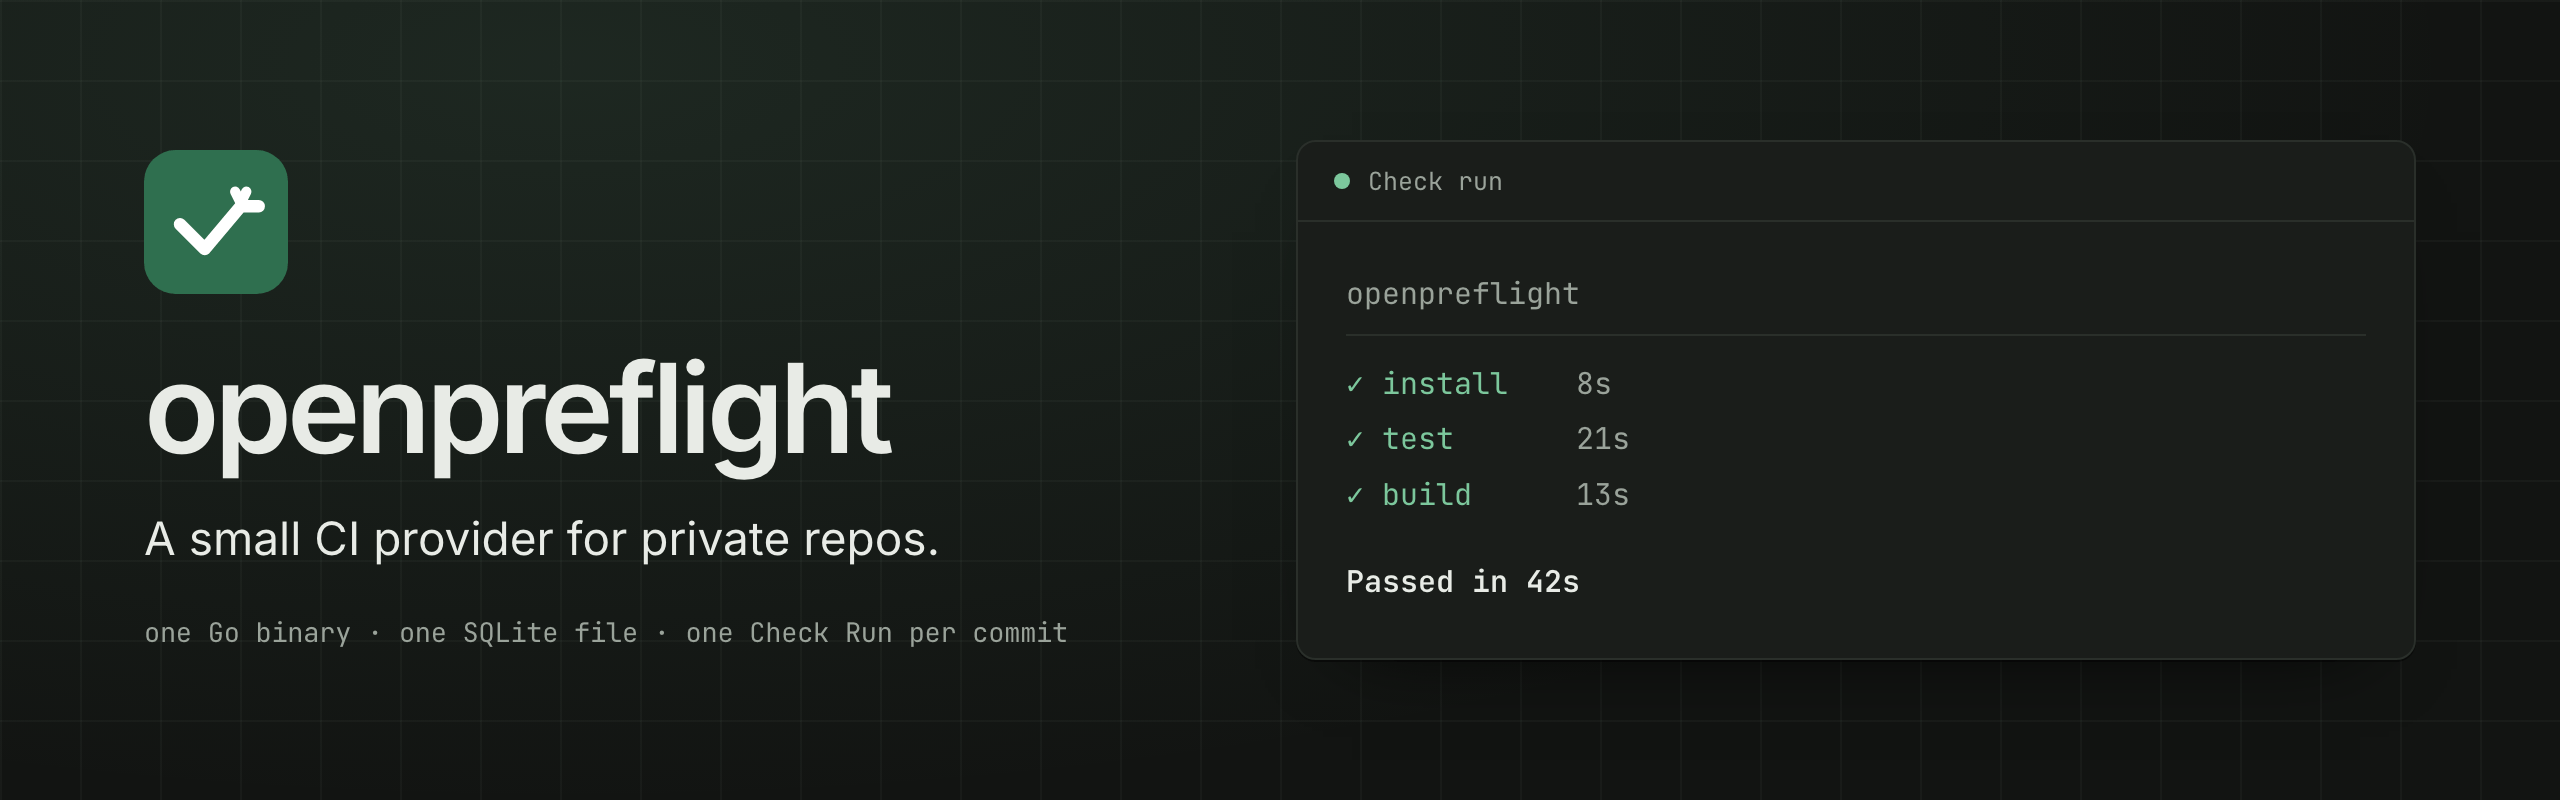
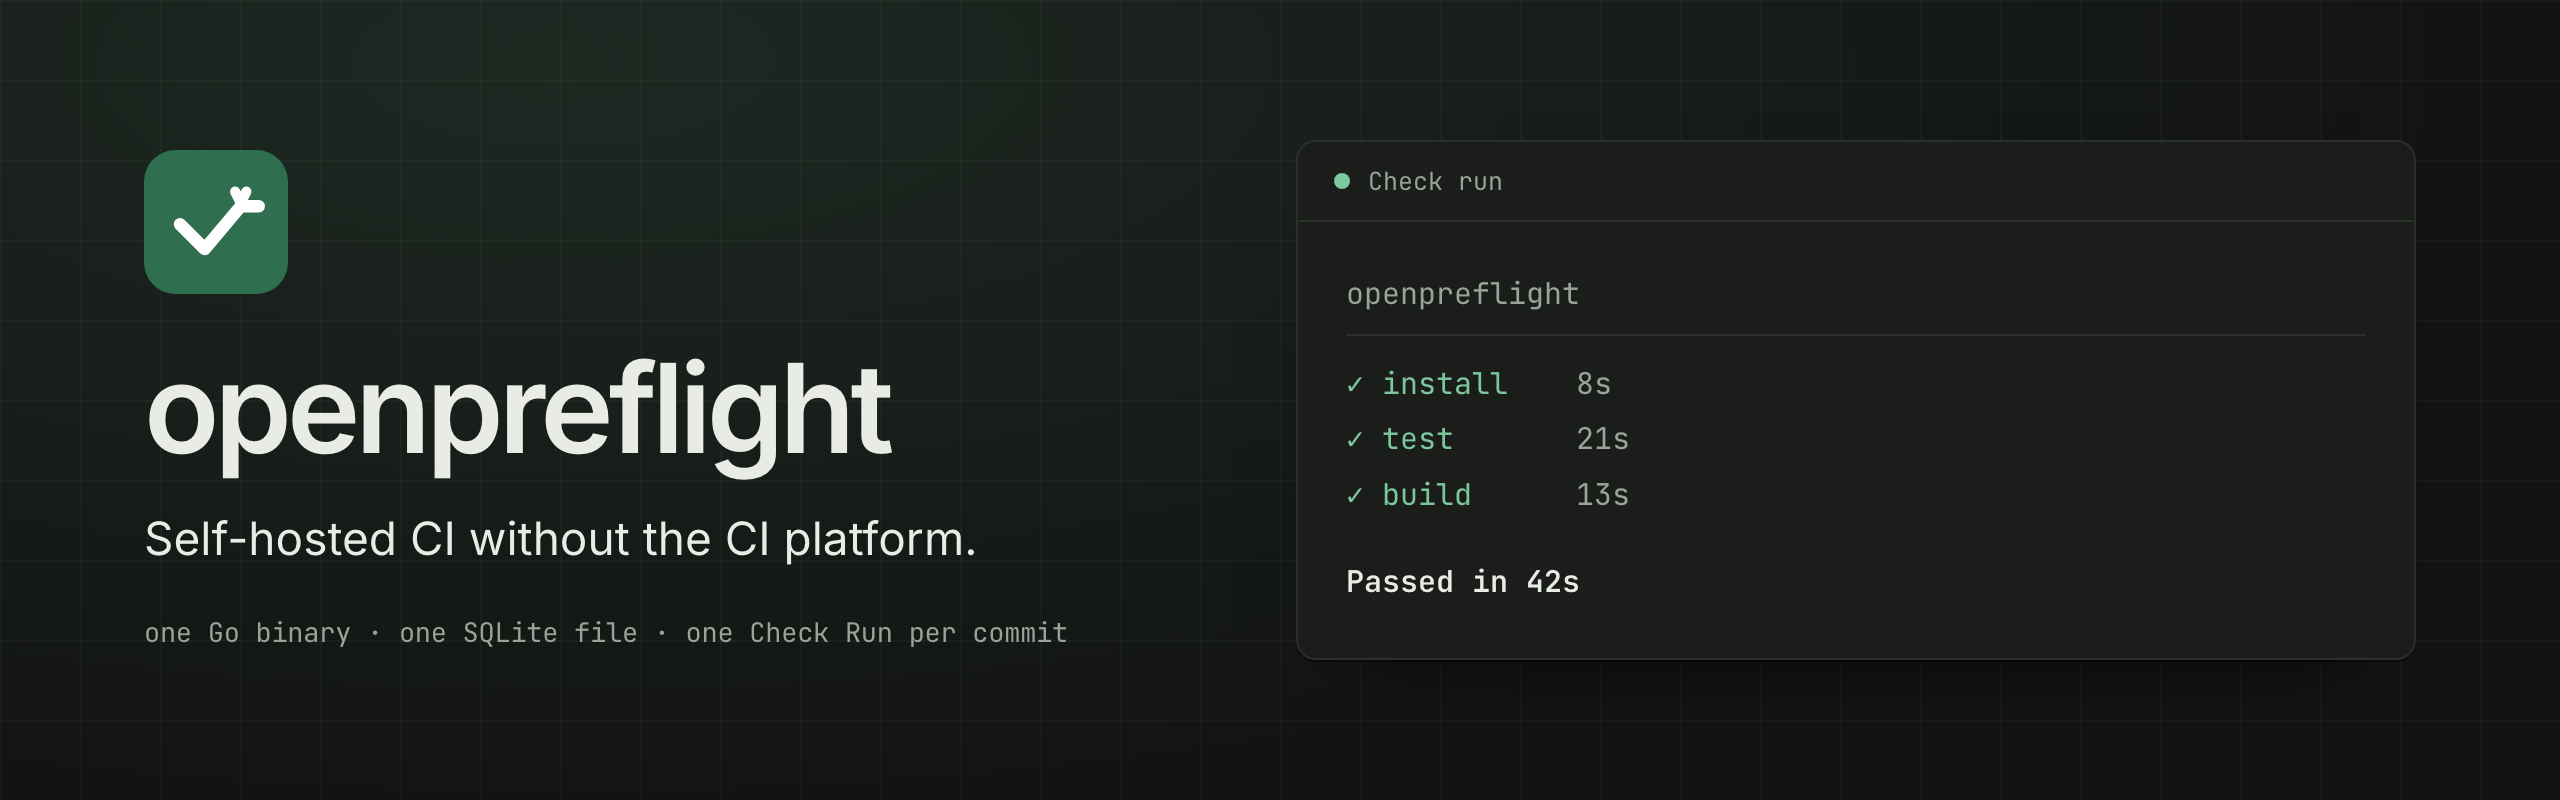
Lead with the positioning and the gating model, not the binary
The hero sold an implementation detail. "A small CI provider for private
repos" plus "one Go binary and one SQLite file" described what the thing
is made of, not what it is for, and left the actual argument — native
GitHub Check Runs from a system you host — to be inferred.

The H1 is now the positioning. Check Runs lead the sub-head and the
binary and SQLite file follow as consequences.

A new section states the gating model, which was the strongest technical
argument on the site and appeared nowhere: event, immutable SHA, one
logical run, one Check Run. Two things fall out of it, and both are
reasons a system this small can hold a required check. A run binds to a
commit and never to a branch, so a force-push has nothing to cancel. And
a skip is a completed check with a `skipped` conclusion rather than an
absent one, so branch protection always gets an answer.

The privacy claim is stated honestly next to it: GitHub has to reach the
webhook, so that part is public, and everything the run touches is not.
The site already said this correctly on Self-hosted and Security; it was
positioning that overshot.

The old positioning also survived in six places the pages did not cover,
including llms.txt and index.md, which is what agents and search engines
read first. Those now carry the gating model too. The banner is
regenerated. og.png still shows the old tagline and has no generator in
this repo, so Layout's ogAlt is left describing the image that ships.
[…]

Changed region(s): [[0.0312, 0.6562, 0.375, 0.7188]]

diff --git a/src/components/templates/saas-landing-01.tsx b/src/components/templates/saas-landing-01.tsx
@@ -8,6 +8,7 @@ import {
   Code2,
   Database,
   FileCode2,
+  GitCommitHorizontal,
   ShieldCheck,
   Terminal,
 } from "lucide-react";
@@ -17,7 +18,7 @@ import { SiteHeader01 } from "@/components/blocks/site-header-01";
 import { Badge } from "@/components/ui/badge";
 import { Button } from "@/components/ui/button";
 import { cn } from "@/lib/utils";
-import { CTA, DOCS, REPO, RELEASE, footerGroups, navGroups, navLinks, tagline } from "@/lib/site";
+import { CHANGELOG, CTA, DOCS, REPO, RELEASE, VERSION, footerGroups, navGroups, navLinks, tagline } from "@/lib/site";
 const checkSteps = [
   { name: "install", command: "npm ci", duration: "8s", width: "19%" },
   { name: "test", command: "go test ./...", duration: "21s", width: "50%" },
@@ -63,6 +64,36 @@ const runSteps = [
   },
 ];
 
+const gatingChain = [
+  {
+    label: "GitHub event",
+    detail: "A check suite is requested for a commit you pushed.",
+  },
+  {
+    label: "Immutable SHA",
+    detail: "The run binds to that commit, never to the branch name.",
+  },
+  {
+    label: "One logical run",
+    detail: "Same repo, same commit, same pipeline means one run, not two.",
+  },
+  {
+    label: "One Check Run",
+    detail: "Your App writes the result back, with the full log behind it.",
+  },
+];
+
+const gatingGuarantees = [
+  {
+    title: "Force-push correctness is free",
+    body: "Nothing is ever attached to a moving reference, so a force-push does not need to cancel anything. The old commit's check stays on the old commit, where it is now simply irrelevant, and the new commit gets its own.",
+  },
+  {
+    title: "A required check never hangs",
+    body: "When a path filter matches nothing, the check still completes \u2014 with a skipped conclusion rather than no check at all. Branch protection sees an answer either way, so a merge is never waiting on a run that was never going to arrive.",
+  },
+];
+
 const outOfScope = [
   "GitHub Actions YAML",
   "actions/runner",
@@ -98,15 +129,17 @@ function SaasLanding01({ className, ...props }: React.ComponentProps<"div">) {
           <div className="mx-auto w-full max-w-7xl">
             <div className="hero-copy mx-auto max-w-4xl text-center">
               <p className="hero-kicker font-mono text-sm font-medium tracking-wide text-primary">
-                v2.0.0 is out
+                v{VERSION} is out
               </p>
               <h1 className="mt-5 text-balance text-[2.75rem] font-semibold leading-[0.95] tracking-[-0.055em] sm:text-6xl lg:text-[4.75rem]">
-                A small CI provider for{" "}
-                <span className="text-primary">private repos.</span>
+                Self-hosted CI without the{" "}
+                <span className="text-primary">CI platform.</span>
               </h1>
-              <p className="mx-auto mt-6 max-w-xl text-pretty text-base leading-relaxed text-muted-foreground sm:text-lg">
-                One Go binary and one SQLite file, on a server you already
-                run. Every commit gets a Check Run with full logs.
+              <p className="mx-auto mt-6 max-w-2xl text-pretty text-base leading-relaxed text-muted-foreground sm:text-lg">
+                Every commit gets a native GitHub Check Run, written by a
+                GitHub App you own. There is no workflow engine and no runner
+                fleet to operate: one Go binary and one SQLite file on a
+                server you already run.
               </p>
               <div className="mt-9 flex flex-col items-center justify-center gap-3 sm:flex-row">
                 <Button asChild size="lg" variant="signature">
@@ -131,7 +164,7 @@ function SaasLanding01({ className, ...props }: React.ComponentProps<"div">) {
                 {" · "}
                 <a
                   className="underline underline-offset-4 hover:text-foreground"
-                  href={`${REPO}/blob/v2.0.0/CHANGELOG.md`}
+                  href={CHANGELOG}
                 >
                   Changelog
                 </a>
@@ -225,6 +258,72 @@ function SaasLanding01({ className, ...props }: React.ComponentProps<"div">) {
                 </div>
               </div>
             </figure>
+          </div>
+        </section>
+
+        <section className="px-5 py-24 sm:px-8 sm:py-32" id="gating">
+          <div className="mx-auto max-w-7xl">
+            <Badge variant="secondary">
+              <GitCommitHorizontal className="size-3.5" /> The gating model
+            </Badge>
+            <div className="mt-7 grid gap-6 lg:grid-cols-[.9fr_1.1fr] lg:items-end">
+              <h2 className="text-balance text-4xl font-semibold tracking-[-.05em] sm:text-5xl">
+                One commit, one check
+              </h2>
+              <p className="max-w-2xl text-base leading-relaxed text-muted-foreground sm:text-lg">
+                Most of what a CI platform does is decide what to run, when, and
+                whether an earlier answer still counts. Gating on the commit
+                instead of the push makes those questions go away, which is the
+                reason a system this small can be trusted with a required check.
+              </p>
+            </div>
+
+            <ol className="mt-14 grid gap-4 md:grid-cols-2 xl:grid-cols-4">
+              {gatingChain.map(({ label, detail }, index) => (
+                <li
+                  className="rounded-[1.75rem] border border-foreground/10 bg-background p-6 sm:p-7"
+                  key={label}
+                >
+                  <span className="font-mono text-xs text-muted-foreground">
+                    0{index + 1}
+                  </span>
+                  <h3 className="mt-8 text-lg font-semibold tracking-[-.03em]">
+                    {label}
+                  </h3>
+                  <p className="mt-2.5 text-sm leading-relaxed text-muted-foreground">
+                    {detail}
+                  </p>
+                </li>
+              ))}
+            </ol>
+
+            <div className="mt-4 grid gap-4 md:grid-cols-2">
+              {gatingGuarantees.map(({ title, body }) => (
+                <article
+                  className="rounded-[1.75rem] border border-primary/25 bg-primary/[0.04] p-6 sm:p-8"
+                  key={title}
+                >
+                  <span className="grid size-11 place-items-center rounded-2xl bg-primary/10 text-primary">
+                    <Check className="size-5" />
+                  </span>
+                  <h3 className="mt-8 text-xl font-semibold tracking-[-.03em]">
+                    {title}
+                  </h3>
+                  <p className="mt-3 text-sm leading-relaxed text-muted-foreground">
+                    {body}
+                  </p>
+                </article>
+              ))}
+            </div>
+
+            <p className="mt-8 max-w-3xl text-sm leading-relaxed text-muted-foreground">
+              <ShieldCheck className="mr-1.5 inline size-4 -translate-y-px text-primary" />
+              GitHub has to reach the webhook, so the worker needs a public
+              HTTPS URL. That part is not private, and pretending otherwise
+              would be dishonest. What stays yours is everything the run
+              touches: builds, source, secrets and logs never leave
+              infrastructure you control.
+            </p>
           </div>
         </section>
 

diff --git a/src/lib/site.ts b/src/lib/site.ts
@@ -1,10 +1,17 @@
-/** Shared marketing chrome. Keep claims 2.0-true: GitHub Check Runs CI only. v2.0.0 is released. */
+/**
+ * Shared marketing chrome. Keep claims 2.0-true: GitHub Check Runs CI only.
+ *
+ * VERSION is the single source of truth for the released version. Bump it here
+ * on a release; do not hardcode a tag in a page, or it goes stale silently.
+ */
 
 export const DOCS = "https://docs.openpreflight.xyz";
 export const REPO = "https://github.com/openpreflight/openpreflight";
 export const WEBSITE_REPO = "https://github.com/openpreflight/website";
 export const DOCS_REPO = "https://github.com/openpreflight/docs";
-export const RELEASE = `${REPO}/releases/tag/v2.0.0`;
+export const VERSION = "2.0.2";
+export const RELEASE = `${REPO}/releases/tag/v${VERSION}`;
+export const CHANGELOG = `${REPO}/blob/v${VERSION}/CHANGELOG.md`;
 
 export const CTA = {
   quickstart: `${DOCS}/start/quickstart/`,
@@ -12,7 +19,7 @@ export const CTA = {
 } as const;
 
 export const tagline =
-  "A small CI provider for private repos. One Go binary, one SQLite file: register a GitHub App, enable your repos, and get one Check Run per commit.";
+  "Self-hosted CI without the CI platform: every commit gets a native GitHub Check Run, written by a GitHub App you own, from one Go binary and one SQLite file on a server you already run.";
 
 /**
  * The whole site, once. The header nav and the footer both render this, so a

diff --git a/src/components/blocks/site-header-01.tsx b/src/components/blocks/site-header-01.tsx
@@ -416,7 +416,7 @@ function SiteHeader01({
                   {brand}
                 </SheetTitle>
                 <SheetDescription>
-                  A small CI provider for private repos.
+                  Self-hosted CI without the CI platform.
                 </SheetDescription>
               </SheetHeader>
               <nav className="mt-8 grid gap-6 overflow-y-auto pb-4" aria-label="Mobile">

diff --git a/public/index.md b/public/index.md
@@ -1,20 +1,33 @@
 # openpreflight
 
-A small CI provider for private repos.
+Self-hosted CI without the CI platform.
 
-Self-hosted. One Go binary and one SQLite file. Register a GitHub App you own, enable your repos, and every commit gets a Check Run with full logs on your server.
+Every commit gets a native GitHub Check Run, written by a GitHub App you own. There is no workflow engine and no runner fleet to operate: one Go binary and one SQLite file on a server you already run, with the full logs served from your own host.
 
 - Site: https://openpreflight.xyz
 - Docs: https://docs.openpreflight.xyz
 - Source: https://github.com/openpreflight/openpreflight
 - License: Apache-2.0
-- Release: https://github.com/openpreflight/openpreflight/releases/tag/v2.0.0 (v2.0.0, 2 September 2026)
+- Release: https://github.com/openpreflight/openpreflight/releases/tag/v2.0.2 (v2.0.2, 2 September 2026)
 
 ## What it is
 
 The UI, JSON API, webhook receiver, and job runner all live in a single Go binary, so there is no message broker and no separate frontend to deploy. State is one SQLite file, with secret columns AES-256-GCM encrypted at rest.
 
 Configuration happens in the web UI: register GitHub Apps, bind repos, and mint tokens without a fresh block of env vars for every installation.
+
+## The gating model
+
+A GitHub event names an immutable SHA, that SHA gets one logical run, and that run gets one Check Run. One repository plus one commit plus one pipeline is always one logical check.
+
+Two things follow, and they are why a system this small can be trusted with a required check:
+
+- **Force-push correctness is free.** A run binds to a commit, never to a branch, so nothing is ever attached to a moving reference. The old commit keeps its own check, where it is now irrelevant, and there is nothing to cancel.
+- **A required check never hangs.** When a path filter matches nothing, the check still completes, with a `skipped` conclusion rather than no check at all. Branch protection always gets an answer.
+
+## Privacy boundary
+
+GitHub has to reach the webhook, so the worker needs a public HTTPS URL. That part is not private. What stays yours is everything the run touches: builds, source, secrets and logs never leave infrastructure you control.
 
 ## How a run works
 
